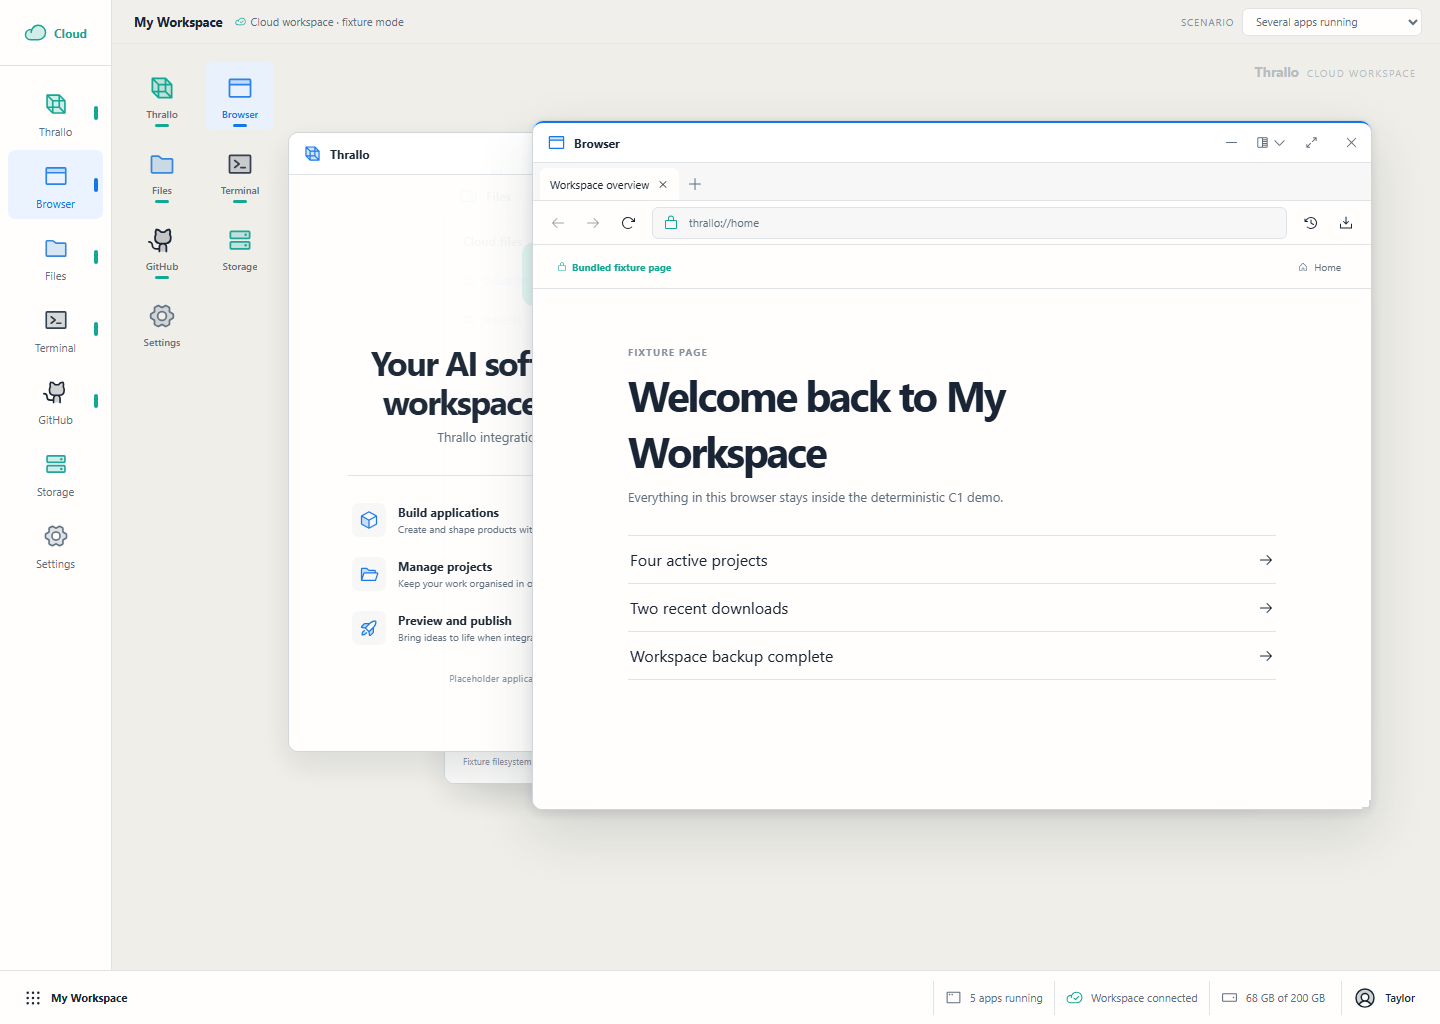
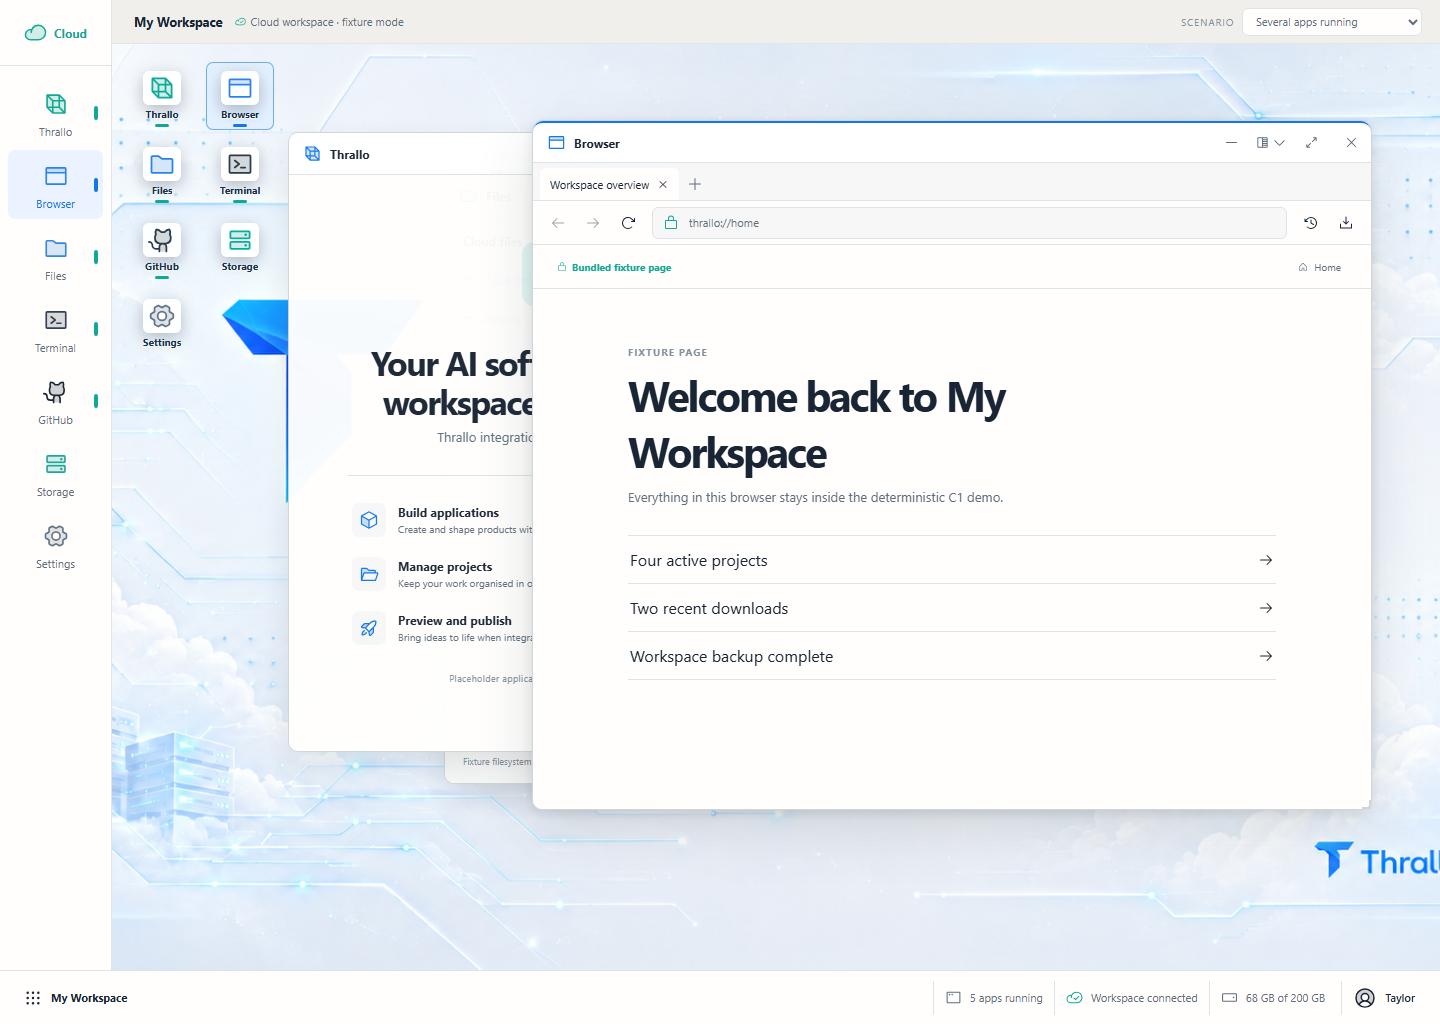
style(cloud-desktop): add accepted C1 wallpaper

diff --git a/cloud-desktop/src/styles.css b/cloud-desktop/src/styles.css
@@ -111,10 +111,14 @@ svg { flex: 0 0 auto; }
   z-index: 1;
   inset: 44px 0 54px 112px;
   overflow: hidden;
-  background: var(--canvas);
+  background-color: #eef7ff;
+  background-image: url("/thrallo-cloud-workspace-background.png");
+  background-position: center;
+  background-repeat: no-repeat;
+  background-size: cover;
 }
 
-.desktop-watermark { position: absolute; right: 24px; top: 18px; display: flex; align-items: baseline; gap: 8px; color: color-mix(in srgb, var(--text-faint) 55%, transparent); pointer-events: none; }
+.desktop-watermark { display: none; }
 .desktop-watermark span { font-size: 14px; font-weight: 700; letter-spacing: -.02em; }
 .desktop-watermark small { font-size: 10px; text-transform: uppercase; letter-spacing: .12em; }
 .desktop-shortcuts { position: absolute; inset: 0; z-index: 1; pointer-events: none; }
@@ -139,10 +143,10 @@ svg { flex: 0 0 auto; }
   touch-action: manipulation;
   user-select: none;
 }
-.desktop-shortcut:hover, .desktop-shortcut.is-selected { border-color: color-mix(in srgb, var(--accent) 22%, transparent); background: color-mix(in srgb, var(--surface-selected) 74%, transparent); color: var(--text); }
-.desktop-shortcut.is-active { background: color-mix(in srgb, var(--accent-soft) 86%, transparent); color: var(--accent); }
-.desktop-shortcut-icon { width: 38px; height: 34px; display: grid; place-items: center; }
-.desktop-shortcut-label { max-width: 62px; overflow: hidden; font-size: 10px; font-weight: 600; line-height: 1.15; text-overflow: ellipsis; white-space: nowrap; }
+.desktop-shortcut:hover, .desktop-shortcut.is-selected { border-color: rgba(49, 132, 225, .48); background: rgba(255, 255, 255, .82); color: #1d344a; }
+.desktop-shortcut.is-active { border-color: rgba(43, 131, 233, .62); background: rgba(225, 240, 255, .9); color: #176bc9; }
+.desktop-shortcut-icon { width: 38px; height: 34px; display: grid; place-items: center; border: 1px solid rgba(255, 255, 255, .72); border-radius: 6px; background: rgba(255, 255, 255, .94); box-shadow: 0 5px 16px rgba(0, 11, 35, .25); }
+.desktop-shortcut-label { max-width: 64px; overflow: hidden; color: #19324a; font-size: 10px; font-weight: 650; line-height: 1.15; text-overflow: ellipsis; text-shadow: 0 1px 2px rgba(255, 255, 255, .96); white-space: nowrap; }
 .desktop-shortcut-state { position: absolute; bottom: 2px; width: 14px; height: 3px; border-radius: 2px; background: var(--teal); }
 .desktop-shortcut.is-active .desktop-shortcut-state { background: var(--accent); }
 .window-layer { position: absolute; inset: 0; z-index: 2; pointer-events: none; }
@@ -193,6 +197,10 @@ svg { flex: 0 0 auto; }
 .app-tone-github { color: var(--text); }
 .app-tone-storage { color: #1ea69a; }
 .app-tone-settings { color: #627485; }
+.desktop-shortcut .desktop-shortcut-icon { color: #293b4d; }
+.desktop-shortcut .app-tone-thrallo, .desktop-shortcut .app-tone-storage { color: #0eaa98; }
+.desktop-shortcut .app-tone-browser, .desktop-shortcut .app-tone-files { color: #2b83e9; }
+.desktop-shortcut .app-tone-settings { color: #627485; }
 
 .status-rail {
   position: absolute;

diff --git a/cloud-desktop/test/e2e/c0-smoke.spec.js b/cloud-desktop/test/e2e/c0-smoke.spec.js
@@ -15,6 +15,8 @@ test("serves the isolated C1 cloud desktop without external requests", async ({ 
   await expect(page.locator("[data-desktop-shell]")).toHaveCount(1);
   await expect(page.locator("[data-taskbar]")).toHaveCount(1);
   await expect(page.locator("[data-application-window='browser']")).toBeVisible();
+  const desktopBackground = await page.locator(".desktop-canvas").evaluate((element) => getComputedStyle(element).backgroundImage);
+  expect(desktopBackground).toContain("thrallo-cloud-workspace-background.png");
 
   for (const requestUrl of requests) {
     const url = new URL(requestUrl);

diff --git a/cloud-desktop/design-qa.md b/cloud-desktop/design-qa.md
@@ -1,82 +1,75 @@
 # C1 design QA
 
-- Source visual truth: `evidence/c1/selected-visual-option-2.png`
-- Browser-rendered implementation: `evidence/c1/screenshots/02-normal-desktop.png`
+- Source visual truth: `public/thrallo-cloud-workspace-background.png`
+- Existing C1 structural reference: `evidence/c1/selected-visual-option-2.png`
+- Browser-rendered implementation: `evidence/c1/screenshots/01-first-launch.png`
 - Side-by-side comparison: `evidence/c1/design-qa-comparison.png`
-- Source pixels: 1487 × 1058
-- Implementation pixels: 1440 × 1024
-- Comparison normalization: source scaled to 1440 × 1024; implementation captured at 1440 × 1024; device scale factor 1
-- State: normal active workspace, light appearance, Browser focused with Thrallo behind
+- Source pixels: 1672 x 941
+- Implementation pixels: 1440 x 1024
+- Comparison normalization: source aspect ratio preserved with a centered cover crop to 1440 x 1024; implementation captured at 1440 x 1024 with device scale factor 1
+- State: first launch, light shell appearance, Thrallo placeholder open
 
 ## Full-view comparison evidence
 
-The corrected implementation preserves the selected direction's distinguishing structure: a narrow
-vertical application shelf, a separate bottom workspace/status rail, a pale full-surface desktop,
-compact window chrome, a dominant fixture Browser window, a secondary Thrallo placeholder window,
-subtle active-window elevation, teal/blue application accents, and restrained density. A compact
-two-column application-shortcut grid now occupies the free upper-left canvas without competing with
-the application windows. The implementation uses a flat pale stone canvas instead of copying the
-concept's decorative paper texture; this keeps C1 within the product requirement to avoid
-wallpaper-like novelty and avoids inventing a raster brand asset.
+The exact supplied light Thrallo cloud image is rendered on the desktop canvas with `cover` sizing
+and centered positioning. Its blue geometric mark remains visible at the left, pale cloud and circuit
+details frame the application windows, and the Thrallo signature remains at the lower right. The
+image restores the requested light product identity while keeping enough separation between the
+desktop, white windows, application shelf, and status rail.
 
 ## Focused comparison evidence
 
-The first-launch and normal-desktop captures verify all seven canvas shortcuts with coherent
-Phosphor icons, readable labels, focused/running state, and adequate separation from the shelf.
-App-specific captures `05-thrallo-placeholder.png`, `06-browser-app.png`, `07-files-app.png`,
-`08-terminal-app.png`, `09-github-app.png`, `10-storage-warning.png`, and `11-settings-app.png` were
-opened and inspected at native screenshot resolution. Typography remains readable, title-bar and
-toolbar spacing stays compact, icons come from one coherent Phosphor family, controls are not
-clipped, and fixture labels clearly distinguish offline/demo behavior. Separate crops were not
-needed because the native 1440 × 1024 captures keep every important control readable.
+The first-launch, normal-desktop, multiple-window, launcher, and dark-compatibility captures were
+opened at native resolution. All seven canvas shortcuts remain readable over the lighter image using
+dark labels, subtle white text shadow, small white icon plates, and pale-blue focus/running states.
+The image remains behind the C1 window layer and does not alter window dimensions, taskbar layout,
+launcher placement, or responsive behavior.
 
 ## Required fidelity surfaces
 
-- Fonts and typography: Inter-compatible system stack, compact 10–14 px chrome, strong 20–42 px
-  content hierarchy, and stable wrapping match the selected direction's editorial density.
-- Spacing and layout rhythm: 112 px shelf, 54 px status rail, 42 px title bars, lean separators,
-  modest 6–10 px radii, and restrained window elevation preserve the reference proportions.
-- Colors and visual tokens: pale stone canvas, white surfaces, deep ink text, blue focused state,
-  and teal connection/application accents align with the selected direction. Dark mode is a
-  compatibility state rather than the product identity.
-- Image quality and asset fidelity: the concept contains no required photo or illustration asset.
-  Application and control icons use the Phosphor library; no emoji, handcrafted SVG, or placeholder
-  icon art is used.
-- Copy and content: Thrallo remains explicitly a future-integration placeholder. Browser, Files,
-  Terminal, GitHub, Storage, and Settings use realistic but clearly fixture-only content.
+- Fonts and typography: the existing Inter-compatible system stack and compact C1 hierarchy are
+  unchanged. Shortcut labels retain their compact size and use dark ink over the light image.
+- Spacing and layout rhythm: the 112 px shelf, 54 px status rail, 42 px title bars, 68 px shortcut
+  footprints, window positions, and restrained elevation remain unchanged.
+- Colors and visual tokens: the supplied white, ice-blue, and electric-blue image is used verbatim.
+  Its palette supports the approved light-by-default direction; dark-mode chrome remains compatible
+  without replacing the desktop image.
+- Image quality and asset fidelity: the supplied 1672 x 941 PNG is copied byte-for-byte into the
+  package and rendered with aspect-preserving `cover`; no CSS recreation, generated substitute, or
+  stretched raster is used.
+- Copy and content: fixture content and Thrallo placeholder copy are unchanged. The redundant
+  code-rendered canvas watermark remains hidden because the supplied image already contains Thrallo
+  branding.
 
 ## Interaction and responsive verification
 
-Playwright exercised mouse double-click, touch single-tap, keyboard shortcut opening, shortcut
-drag/persistence, launcher and taskbar synchronization, launcher search/keyboard dismissal, app
-open/focus, taskbar restore, minimize/maximize/restore, snapping, window drag/resize, close,
-persistence, corrupt-state recovery, all seven fixture apps, reduced motion, tablet
-portrait/landscape, mobile app switching, and fixed-origin network enforcement. Chromium console
-output contained no application error during the passing run.
+Playwright verified the exact local background request, all shortcut launch/focus paths, launcher and
+taskbar synchronization, accessibility, tablet and mobile layouts, and loopback-only network
+behavior. Tablet and mobile continue using their focused-window/app-switcher layouts, so the desktop
+image creates no new overflow or touch regression.
 
 ## Findings
 
-No actionable P0, P1, or P2 visual mismatch remains.
+No actionable P0, P1, or P2 visual issue remains.
 
-P3 follow-up: a future brand pass may supply an approved subtle canvas texture or bespoke Thrallo
-mark. C1 intentionally uses the selected structure and a library icon until those assets exist.
+P3 follow-up: the user may prefer a different focal crop after reviewing the live prototype. The
+current centered `cover` crop is the most stable default across common desktop aspect ratios.
 
 ## Comparison history
 
-The original C1 browser pass found functional test issues in drag bounds, ambiguous test selectors,
-and a tablist accessibility role; those were corrected before the original handoff. The C1 visual
-correction then found that the full-size window layer intercepted pointer input intended for the new
-canvas shortcuts. Empty window-layer space was made pointer-transparent while real windows retain
-normal input. Post-fix evidence is the refreshed fifteen-screenshot set, the regenerated side-by-side
-comparison, and the passing shortcut-focused Chromium checks.
+The rejected first background pass used the earlier dark-blue version of the artwork and required
+white shortcut labels. The user supplied a lighter replacement, which was applied byte-for-byte.
+Shortcut labels, selection surfaces, and fallback canvas color were then returned to a light-product
+contrast treatment. Post-fix evidence is the refreshed fifteen-screenshot set and current
+side-by-side comparison.
 
 ## Implementation checklist
 
-- [x] Selected visual structure implemented
-- [x] All seven fixture applications represented
-- [x] All seven applications available as accessible desktop shortcuts
-- [x] Window and launcher interactions verified
-- [x] Responsive and accessibility states verified
-- [x] No-production-network boundary verified
+- [x] Exact replacement background asset used
+- [x] Desktop canvas only; surrounding C1 shell preserved
+- [x] Seven shortcuts remain readable and interactive
+- [x] Light and dark compatibility checked
+- [x] Desktop, tablet, and mobile layouts checked
+- [x] No-production-network boundary preserved
 
 final result: passed
